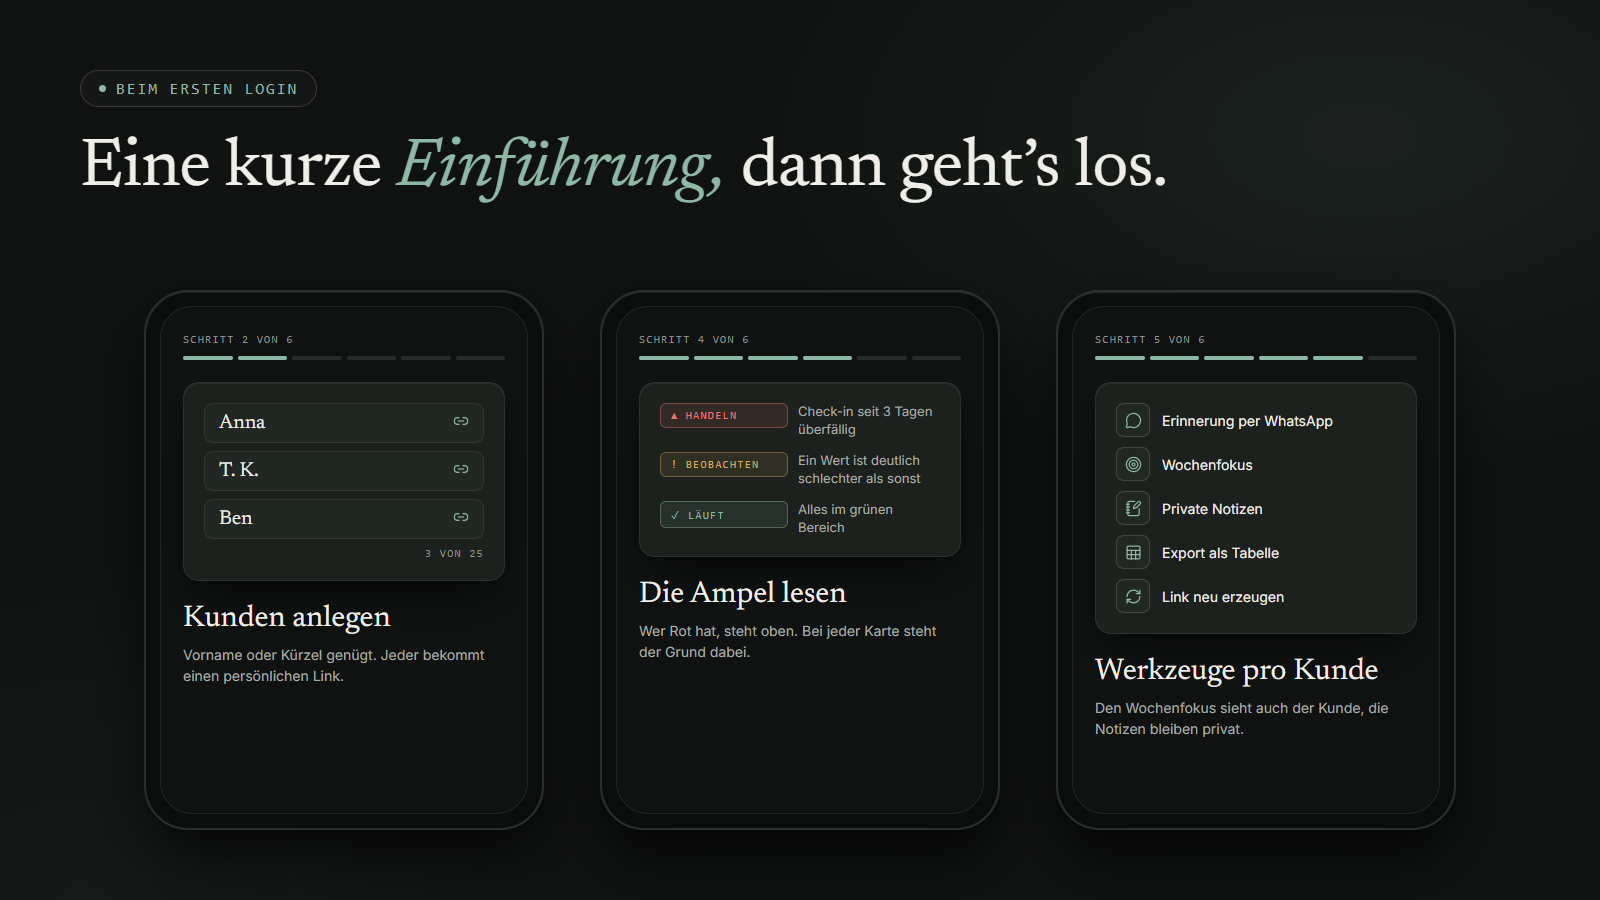
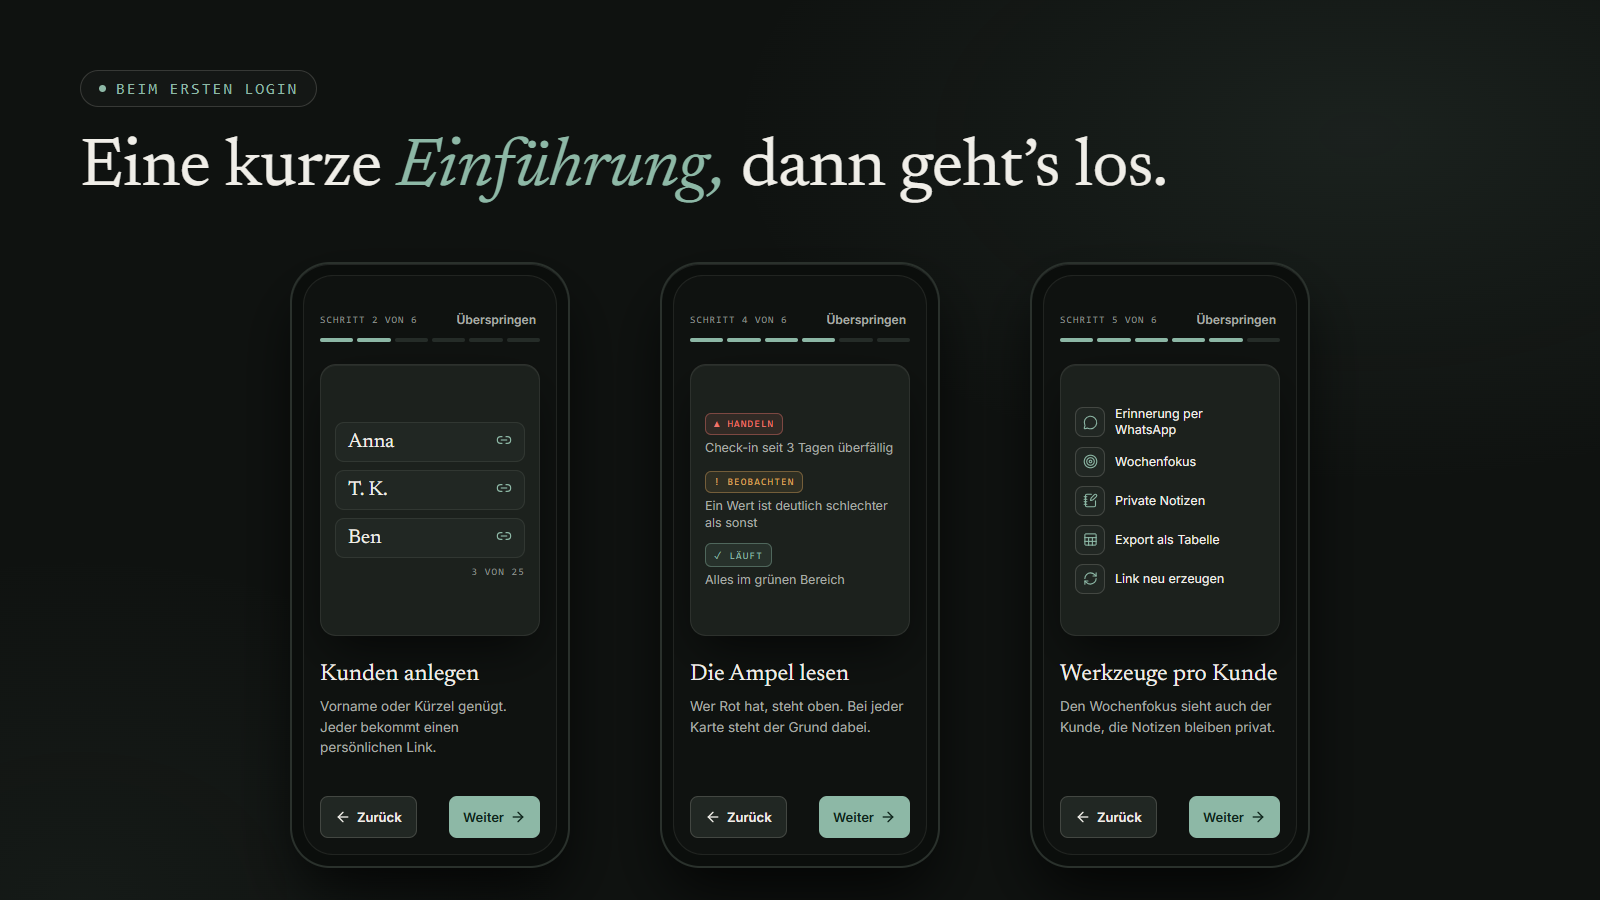
Englische README mit englischen Grafiken und Sprachumschalter

diff --git a/README.en.md b/README.en.md
@@ -1,0 +1,194 @@
+<div align="center">
+
+[Deutsch](README.md) · **English**
+
+# Wochenpuls
+
+Weekly check-ins for fitness coaches with their first clients. One link per client, one short form, one traffic light for everyone.
+
+![Wochenpuls: "Who needs you this week?" – 2 minutes per check-in, 0 logins for clients, 1 page of overview. Next to it the coach overview in a browser window and the check-in form on a phone.](.github/readme/en/hero.png)
+
+[![View demo](https://img.shields.io/badge/Demo-wochenpuls.vercel.app-8db8a6?style=for-the-badge)](https://wochenpuls.vercel.app/demo)
+[![License: MIT](https://img.shields.io/badge/License-MIT-lightgrey?style=for-the-badge)](LICENSE)
+![Next.js 16](https://img.shields.io/badge/Next.js-16-lightgrey?style=for-the-badge)
+![Firebase Auth and Firestore](https://img.shields.io/badge/Firebase-Auth%20%2B%20Firestore-lightgrey?style=for-the-badge)
+
+[Try it out](#try-it-out) · [Tools](#tools-per-client) · [Privacy](#privacy--limits) · [Self-hosting](#self-hosting)
+
+</div>
+
+---
+
+## Who is this for?
+
+You are a fitness coach with your first clients (up to 25 are possible) and you want to know how they are really doing, without scrolling through ten WhatsApp chats every week or maintaining a spreadsheet nobody keeps up to date.
+
+Wochenpuls collects your clients' weekly feedback in one calm place and uses a traffic light to show you who is slipping. No login for your clients, no app to install, just a personal link.
+
+## How it works
+
+![In three steps: add clients, send the link via WhatsApp, read the traffic light](.github/readme/en/steps.png)
+
+**1. Add clients.** A first name or initials is enough. Every client gets a personal link.
+
+**2. Link via WhatsApp.** One tap opens WhatsApp with the message ready. On Sundays, your client answers eight short questions in about two minutes: how many workouts they did, how they felt, what went well, what was hard, and whether they have a question for you.
+
+**3. One page for everyone.** You see at a glance who is red, yellow or green, and why in one sentence. Red always comes first.
+
+## Try it out
+
+The demo runs with made-up clients and needs no sign-up: **[wochenpuls.vercel.app/demo](https://wochenpuls.vercel.app/demo)**
+
+You can join in yourself: fill in the check-in like a client, then find yourself in the overview with your own traffic light. You can also click through the [introduction for new coaches](https://wochenpuls.vercel.app/demo/willkommen) there.
+
+**Your own account:** Wochenpuls is free and a portfolio project. You sign in with Google. New coaches need an invite code, which I hand out personally. Just message me on [LinkedIn](https://www.linkedin.com/in/schmidt-frederik).
+
+## The traffic light
+
+Every client always has one of four traffic light colors. Wochenpuls recalculates it every time you open the overview, using fixed rules instead of gut feeling (`src/lib/ampel.ts`):
+
+| Traffic light | Meaning | When it appears |
+|---|---|---|
+| 🔴 **Act** | Critical, get in touch now | The check-in is 3 days or more overdue · **or** your client completed less than half of the planned workouts · **or** energy or motivation were very low two weeks in a row (2 out of 5 or lower) |
+| 🟡 **Watch** | Warning sign, keep an eye on it | The check-in is 1–2 days overdue · **or** a value is at least 2 points worse than the client's own average of the previous two to three check-ins (for stress: higher) · **or** energy, sleep or motivation are very low this week (2 out of 5 or lower) · **or** stress is very high this week (5 out of 5) |
+| ⚪ **New** | Just added | The client is still waiting for their first check-in (and is not yet overdue) |
+| 🟢 **On track** | Stable, no action needed | None of the above applies |
+
+The check-in is always due on **Sundays**. If it is still missing on Monday, the traffic light turns yellow, and from Wednesday it turns red. Late check-ins are accepted up to and including Wednesday: they then count as normal for the past week. A new client does not have to check in for the first time until three days after being added at the earliest.
+
+## What it looks like
+
+**Your overview.** All clients on one page, sorted by urgency.
+
+![Overview of clients with traffic light colors and reasons (app interface in German)](.github/readme/uebersicht.png)
+
+<table>
+  <tr>
+    <td align="center" width="50%">
+      <img src=".github/readme/checkin-handy.png" alt="Check-in form on a phone (app interface in German)" width="260" /><br />
+      <sub><b>The check-in on a phone.</b> Big tap targets, about two minutes.</sub>
+    </td>
+    <td align="center" width="50%">
+      <img src=".github/readme/detail.png" alt="Client detail page with history charts for energy, sleep, stress and motivation (app interface in German)" width="380" /><br />
+      <sub><b>A client's detail page.</b> With the history of the past weeks.</sub>
+    </td>
+  </tr>
+</table>
+
+The app interface is in German.
+
+## Tools per client
+
+![Six tools per client: WhatsApp reminder, weekly focus, private notes, export as spreadsheet, regenerate link, archive and delete](.github/readme/en/tools.png)
+
+- **WhatsApp reminder** – on the client page and on the detail page. WhatsApp opens with the message ready, and you pick the recipient there.
+- **Weekly focus** – one sentence about what matters this week. Your client sees it in the check-in and replies to it. A new version applies from the next check-in week.
+- **Private notes** – for your eyes only.
+- **Export as spreadsheet** – all of a client's check-ins as CSV, opens straight in Excel.
+- **Regenerate link** – in case a client link was passed on; the old link then stops working.
+- **Archive and delete** – archived clients are locked, deleted ones disappear together with all their check-ins. At most 25 clients per coach.
+
+### Introduction on first login
+
+New coaches get a short introduction in six steps on their first login. In the demo you can find it at [/demo/willkommen](https://wochenpuls.vercel.app/demo/willkommen).
+
+![Three steps of the introduction in a phone frame: add clients, read the traffic light, tools per client](.github/readme/en/onboarding.png)
+
+## Privacy & limits
+
+Wochenpuls is deliberately kept slim:
+
+- **No body or health data.** Weight, photos, nutrition or injuries are not asked for, only workouts, four ratings from 1 to 5 (energy, sleep, stress, motivation) and short texts. The form says explicitly: "Please no health information such as injuries or diagnoses." (In the app: „Bitte keine Gesundheitsangaben wie Verletzungen oder Diagnosen.“)
+- **Client consent.** Before the first check-in, your client gives their consent and can withdraw it at any time.
+- **Data processing agreement (DPA).** Coaches conclude it when they register: [/avv](https://wochenpuls.vercel.app/avv) (in German). You can pass the [privacy policy](https://wochenpuls.vercel.app/datenschutz) (in German) on to your clients.
+- **No account for clients.** The personal link is enough.
+- **No trackers.** No analytics or advertising scripts. There is exactly one cookie, the coach's session cookie after sign-in.
+- **Database only from the server.** The browser never accesses the database directly.
+- **Servers in Frankfurt.** Server at Vercel (region `fra1`), database at Firestore (europe-west3).
+- **Every coach sees only their own clients.**
+- **Delete your account yourself.** Under "Konto" (account) you delete your account together with all clients, check-ins, notes and consents.
+
+What does not exist (yet): reminders that are sent to clients automatically, and an automatic summary of the week.
+
+## Self-hosting
+
+Wochenpuls is open source (MIT license), so you can set it up yourself. For a handful of clients the free plans of Vercel and Firebase are usually enough; but check their terms, for example Vercel's free plan is intended for personal, non-commercial use only. Some basic technical understanding helps.
+
+> **Important:** The privacy policy and the data processing agreement in this repository name me as the operator. Anyone running Wochenpuls themselves needs their own legal texts.
+
+1. **Fork the repository**: click "Fork" at the top right on GitHub.
+2. **Create a Firebase project** (you can turn off Google Analytics) and create a Firestore database in it: region **europe-west3 (Frankfurt)**, "Production" mode, database ID `(default)`. The region cannot be changed later.
+3. **Generate a service account key**: In the Firebase project settings under "Service accounts", click "Generate new private key". This downloads a JSON file whose entire content goes into an environment variable later. **This file is secret and must never end up on GitHub.**
+4. **Set up sign-in**: In Firebase under "Authentication" → "Sign-in method", enable the **Google** provider. You add your own domain under "Settings" → "Authorized domains".
+5. **Import into Vercel**: import your forked repository as a new project and set these environment variables:
+   - `FIREBASE_SERVICE_ACCOUNT` – the complete content of the JSON file from step 3
+   - `NEXT_PUBLIC_FIREBASE_API_KEY`, `NEXT_PUBLIC_FIREBASE_AUTH_DOMAIN`, `NEXT_PUBLIC_FIREBASE_PROJECT_ID` – from the Firebase project settings under "Your apps" → web app (the values `apiKey`, `authDomain`, `projectId`). They are not secret.
+   - `ADMIN_EMAIL` – your Google address. Whoever signs in with it needs no code and can create invite codes for further coaches under "Codes".
+
+   If you set the variables afterwards, trigger a "Redeploy" in Vercel once.
+6. **Check**: open `https://your-address.vercel.app/status`. All three lines must show "✓ Ja" (yes).
+7. **Get started**: sign in at `/login` with the admin address and add your first client under "Kunden" (clients).
+
+The Node version in Vercel must match `package.json` (`engines`: 24.x). From then on, Vercel rebuilds automatically on every push.
+
+## FAQ
+
+**Do my clients need an app?**
+No. They open their personal link in the browser, like any ordinary web page.
+
+**What if a client forgets the check-in?**
+Their traffic light automatically turns yellow and later red. If they submit it by the Wednesday after the due Sunday, it still counts for that week. With one tap you remind them via WhatsApp.
+
+**Can several coaches use this?**
+Yes. Each coach signs in with their own Google account and sees only their own clients. New coaches need an invite code the first time.
+
+**How do I get an invite code?**
+Message me on [LinkedIn](https://www.linkedin.com/in/schmidt-frederik). Wochenpuls is free.
+
+**Is this a finished, commercial app?**
+No, it is a portfolio project: small, clean and free to use.
+
+**Where is the data stored?**
+In Frankfurt: the server at Vercel (`fra1`), the database at Firestore (europe-west3).
+
+## License
+
+MIT, see [LICENSE](LICENSE).
+
+Built by [Frederik Schmidt](https://github.com/fxd-gif).
+
+---
+
+<details>
+<summary><strong>For developers</strong></summary>
+
+### Tech stack
+
+- [Next.js](https://nextjs.org/) 16 (App Router), React 19, TypeScript
+- Tailwind CSS 4
+- Firebase Authentication (Google) and Firestore, data access only server-side via the Admin SDK
+- Vitest for tests
+- Hosting on Vercel, region `fra1` (Frankfurt)
+
+Traffic light rules: `src/lib/ampel.ts`. Date and week calculation (always Europe/Berlin): `src/lib/woche.ts`.
+
+### Run locally
+
+Requirement: Node.js 24.x.
+
+```bash
+npm install
+npm run dev
+```
+
+Then open [http://localhost:3000](http://localhost:3000). For the full coach view with a database you need the environment variables from the "Self-hosting" section (`FIREBASE_SERVICE_ACCOUNT`, the three `NEXT_PUBLIC_FIREBASE_…` values and `ADMIN_EMAIL`). Locally they belong in a file called `.env.local`, which Git ignores. Without them, the demo at `/demo` still works completely.
+
+### Tests
+
+```bash
+npm test
+```
+
+Currently 34 tests run (traffic light, week calculation, overview, CSV export, WhatsApp link).
+
+</details>

diff --git a/README.md b/README.md
@@ -1,5 +1,7 @@
 <div align="center">
 
+**Deutsch** · [English](README.en.md)
+
 # Wochenpuls
 
 Wöchentliche Check-ins für Fitness-Coaches mit ihren ersten Kunden. Ein Link pro Kunde, ein kurzes Formular, eine Ampel für alle.
@@ -11,7 +13,7 @@ Wöchentliche Check-ins für Fitness-Coaches mit ihren ersten Kunden. Ein Link p
 ![Next.js 16](https://img.shields.io/badge/Next.js-16-lightgrey?style=for-the-badge)
 ![Firebase Auth und Firestore](https://img.shields.io/badge/Firebase-Auth%20%2B%20Firestore-lightgrey?style=for-the-badge)
 
-[Ausprobieren](#ausprobieren) · [Werkzeuge](#werkzeuge-pro-kunde) · [Datenschutz](#datenschutz--grenzen) · [Selbst betreiben](#selbst-betreiben) · [In English](#in-english)
+[Ausprobieren](#ausprobieren) · [Werkzeuge](#werkzeuge-pro-kunde) · [Datenschutz](#datenschutz--grenzen) · [Selbst betreiben](#selbst-betreiben)
 
 </div>
 
@@ -155,13 +157,7 @@ Entwickelt von [Frederik Schmidt](https://github.com/fxd-gif).
 
 ---
 
-## In English
-
-Wochenpuls is a small weekly check-in tool for fitness coaches who are just starting out. Each client gets a personal link (no login, no app) and fills out an eight-question form once a week, in about two minutes. The coach sees all clients on one page with a traffic-light indicator showing who needs attention, plus a detail page with history charts.
-
-Coaches sign in with Google; new coaches need an invitation code (free, handed out personally via [LinkedIn](https://www.linkedin.com/in/schmidt-frederik)). Per client there are a WhatsApp reminder, a weekly focus, private notes, a CSV export, link regeneration, archiving and deletion, up to 25 clients per coach. Clients consent before their first check-in and can withdraw at any time.
-
-Try the live demo with fictional clients at **[wochenpuls.vercel.app/demo](https://wochenpuls.vercel.app/demo)**, no sign-up needed. The interface is entirely in German. The project is open source under the MIT license; see [“Selbst betreiben” (self-hosting)](#selbst-betreiben) above. Anyone hosting it needs their own legal texts, since the privacy policy and data processing agreement name me as the operator.
+English version: [README.en.md](README.en.md)
 
 ---
 
